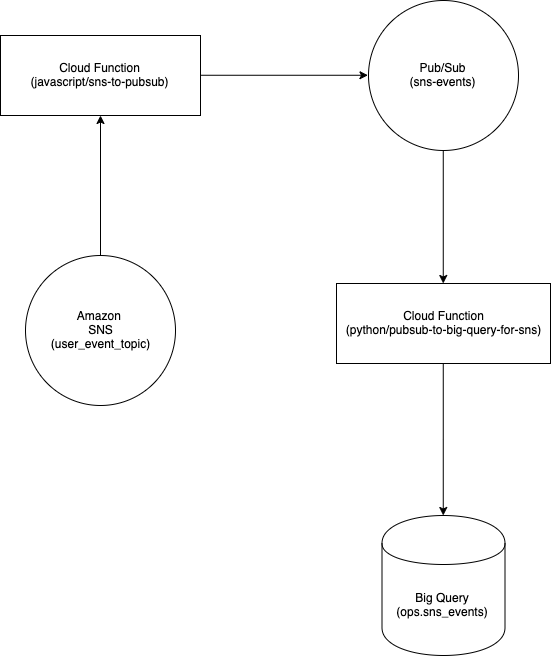
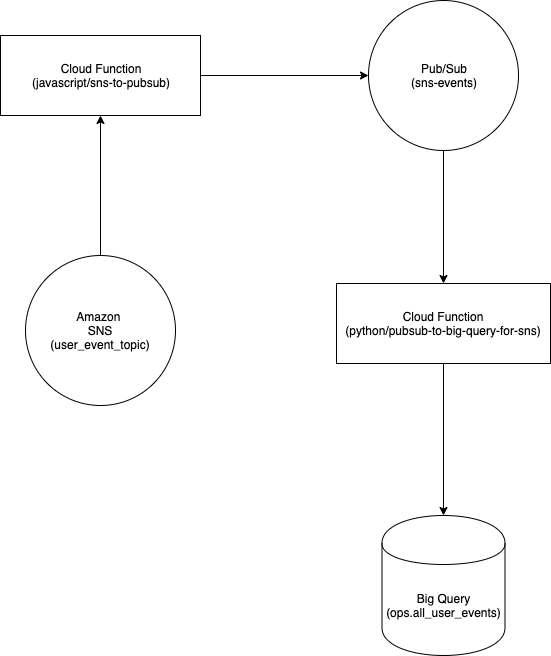
Update docs and architecture diagrams for data flow and fraud detection

diff --git a/functions/python/funnel-analysis/main.py b/functions/python/funnel-analysis/main.py
@@ -38,55 +38,7 @@ EVENTS_LIST = [
     }
 ]
 
-# dropoffs =======>
-#
-# find users who had an onboarding event but not certain events ("referral", "logged_in") between certain dates
-#
-# 1. select users that have all considered events: ["onboarding", "referral", "logged_in"]
-# 2. selects users that have events we want to filter out: ["referral", "logged_in"]
-# loop through all users in 2 if found in 1, delete row => thus the userId
-#
-# select userId from events_table where userId not in (
-#     select userId
-# from events_table
-# where event_type in ("referral", "logged_in") and creation_time <= $end_date
-# ) and event_type = "onboarding"
-# and creation_time >= $start_date and creation_time <= $end_date
-#
-#
-# recoveries ====>
-# select users with onboarding event before yesterday but no referral screen before yesterday (between certain dates), who now entered a referral screen yesterday
-#
-# first part: select users with onboarding event before yesterday but no referral screen before yesterday (or between certain dates)
-# select userId from events_table where userId not in
-# (
-#     select userId
-# from events_table
-# where event_type in ("referral", "logged_in") and creation_time <= $yesterday
-# )
-# and event_type = "onboarding"
-# and creation_time >= $start_date and creation_time <= $yesterday
-#
-# second part: select users who entered a referral screen yesterday
-# select user_id from events_table
-# where event_type="referral"
-# and creation_time >= $yesterday (between yesterday_start and yesterday_end)
-#
-# full part:
-# select user_id from events_table
-# where event_type="referral"
-# and creation_time >= $yesterday (between yesterday_start and yesterday_end)
-# and userId in
-# (
-#     select userId from events_table where userId not in
-# (
-# select userId
-# from events_table
-# where event_type in ("referral", "logged_in") and creation_time <= $yesterday
-# )
-# and event_type = "onboarding"
-#                  and creation_time >= $end_date and creation_time <= $yesterday
-# )
+
 
 def calculate_date_n_days_ago_at_utc(num):
     print("Getting date for {} days ag".format(num))

diff --git a/functions/python/user-behaviour/constant.py b/functions/python/user-behaviour/constant.py
@@ -1,7 +1,7 @@
 DEPOSIT_TRANSACTION_TYPE = "DEPOSIT"
 WITHDRAWAL_TRANSACTION_TYPE = "WITHDRAWAL"
-FIRST_BENCHMARK_DEPOSIT = 100000
-SECOND_BENCHMARK_DEPOSIT = 50000
+FIRST_BENCHMARK_DEPOSIT = 100000 # this is in unit 'WHOLE_CURRENCY'
+SECOND_BENCHMARK_DEPOSIT = 50000 # this is in unit 'WHOLE_CURRENCY'
 SIX_MONTHS_INTERVAL = 6
 FACTOR_TO_CONVERT_WHOLE_CURRENCY_TO_HUNDREDTH_CENT = 10000
 FACTOR_TO_CONVERT_WHOLE_CENT_TO_HUNDREDTH_CENT = 100

diff --git a/README.md b/README.md
@@ -24,11 +24,22 @@ Terraform is used to manage our infrastructure on GCP
  
 We run a serverless architecture which means our codebase is divided into functions which serve different purposes.
 
-There are four functions in this repository at the moment and they are located in the `functions` folder, they include:
-- `javascript/sns-to-pubsub` written in Javascript (Node 10)
-- `python/pubsub-to-big-query-for-sns` written in Python 3
-- `python/sync-amplitude-data-to-big-query` written in Python 3
-- `javascript/fetch-from-big-query` written in Javascript (Node 10)
+The functions in this repository are located in the `functions` folder. Within the functions folder, these functions
+are sub-divided into `javascript` and `python` folders and this represents the language they are written in.
+The functions are:
+
+JavaScript:
+- `javascript/sns-to-pubsub`: receives events from Amazon SNS and publishes it to Google Pub/Sub topic: `sns-events`
+- `javascript/fetch-from-big-query`: fetch amplitude data from big query
+- `javascript/notification-service`: sends email notifications with given message to given users
+- `javascript/fraud-detector`: runs a set of custom rules against user behaviour to determine if user is dodgy
+
+Python: 
+- `python/pubsub-to-big-query-for-sns`: takes sns events from Pub/Sub and stores into big query table: `all_user_events`
+- `python/sync-amplitude-data-to-big-query`: downloads data daily from Amplitude and stores into big query table: `all_user_events` 
+- `python/funnel-analysis`: checks for drop offs / recovery users  
+- `python/user-behaviour`: updates user behaviour when there is an event on `sns-events` topic and retrieves user behaviour 
+
 
 The functions above are all cloud functions on GCP.
 
@@ -56,7 +67,7 @@ Production Endpoint:  [https://europe-west1-jupiter-production-258809.cloudfunct
 
 Diagram of Data flow from Amazon
 
-![Diagram showcasing Data flow from Amazon](/docs/diagram_of_data_flow_from_amazon.png)
+![Diagram showcasing Data flow from Amazon](docs/diagram_of_data_flow_from_amazon.png)
 
 
 ## Data Inflow from Amplitude
@@ -72,13 +83,14 @@ that sends a message to Pub/Sub topic `daily-runs` at 3am every day. The `python
 function is subscribed to the Pub/Sub topic `daily-runs` and starts syncing amplitude data to big query for the 
 previous day on receiving the message from `daily-runs`.
 
-On receiving the data from Amplitude, `python/sync-amplitude-data-to-big-query` transforms the data and stores a copy of it in google cloud storage and then loads the data into Big Query tables `amplitude.events` and `amplitude.events_properties`.
+On receiving the data from Amplitude, `python/sync-amplitude-data-to-big-query` transforms the data and stores a copy of it in google cloud storage 
+and then loads the data into Big Query table `ops.all_user_events`
 
 Again the entire flow is best explained with the diagram below:
 
 Diagram of Data flow from Amplitude
 
-![Diagram showcasing Data flow from Amplitude](/docs/diagram_of_data_flow_from_amplitude.png)
+![Diagram showcasing Data flow from Amplitude](docs/diagram_of_data_flow_from_amplitude.png)
 
 
 ## Fetch From Amplitude
@@ -90,23 +102,99 @@ Endpoints for `javascript/fetch-from-big-query` are:
 Staging Endpoint: [https://us-central1-jupiter-ml-alpha.cloudfunctions.net/fetch-from-big-query](https://us-central1-jupiter-ml-alpha.cloudfunctions.net/fetch-from-big-query )
 Production Endpoint:  [https://europe-west1-jupiter-production-258809.cloudfunctions.net/fetch-from-big-query](https://europe-west1-jupiter-production-258809.cloudfunctions.net/fetch-from-big-query)
 
-## Google and Amplitude Credentials
 
+## Fraud Detection
+We would like to detect dodgy users. Users that are suspected to have made fraudulent transactions.
+Our architecture involves 4 different functions in order to achieve this.
+
+The flow of fraud detection starts with the `python/user-behaviour` folder which contain two functions in one file.
+The `updateUserBehaviourAndTriggerFraudDetector` (referred to as: `update user behaviour`) and `fetchUserBehaviourBasedOnRules` 
+(referred to as: `fetch user behaviour`) functions.
+
+Step 1: **`update user behaviour` logs new user behaviour**. 
+The `update user behaviour` is triggered by a new event on the `sns-events` topic
+(indicating a new user transaction), `update user behaviour` proceeds to log the user's new 
+transaction to the big query table: `ops.user_behaviour`.
+
+Step 2: **`update user behaviour` triggers fraud detector**. 
+`update user behaviour` then triggers the fraud detector via a http POST request with body 
+of the request as the user account info: `userId` and `accountId`.
+
+
+Step 3(a): **`fraud detector` retrieves the last flag times for user/rules** .
+The `javascript/fraud-detector` has the entry point: `fetchFactsAboutUserAndRunEngine` (referred to as: `fraud detector`).
+On receiving the POST request with the user account details from the `update user behaviour`
+function, the `fraud detector` retrieves the last time a user was flagged for the 
+various rules we have in the `javascript/fraud-detector/custom-rules.js` from the big query table: 
+`ops.user_flagged_as_fraudulent` table. These last flag times are then used to fetch facts about user behaviour 
+by sending a http POST request to the `fetch user behaviour` with the user account info and the last flag times for rules.
+
+Step 3(b): **`fraud detector` retrieves the user behaviour from `fetch user behaviour`** .
+On receiving the http POST request from `fraud-detector`, `fetch user behaviour` fetches the user behaviour 
+based on the aforementioned custom rules and last flag times. `fetch user behaviour` fetches the user 
+behaviour from the table: `user_behaviour`, it then returns the response to the `fraud-detector`.
+
+Step 4: **`fraud detector` runs user behaviour against rules** . 
+On receiving the response from `fetch user behaviour`, `fraud detector` runs the received user behaviour against the 
+predefined custom rules located in : `javascript/fraud-detector/custom-rules.js`.
+If any of the rules are passed by the received user behaviour, then the `fraud-detector` logs a flag to the 
+big query table: `user_flagged_as_fraudulent` indicating that the user is fraudulent. 
+Email Notifications are also sent to JupiterSave admins via a POST request to the notification service.
+
+If `verbose mode` is set to `true`, an email notification is sent via the notification service indicating that the 
+fraud detector ran.
+
+When an error occurs during the fraud detection process, an email notification is sent via the notification service 
+indicating that an error occurred during fraud detection.
+
+Fraud detector can be explained with a diagram showing the steps involved:
+
+Diagram of flow of Fraud Detection
+
+![Diagram showcasing process of Fraud Detection](docs/diagram_of_fraud_detection_process.png)
+
+
+
+No http endpoint is exposed for `user behaviour`'s first function => `updateUserBehaviourAndTriggerFraudDetector` 
+(`python/user-behaviour`) as the function is triggered by the Pub/Sub topic: `sns-events`
+ 
+Http Endpoints for `fraud detector` function => `fetchFactsAboutUserAndRunEngine` (`javascript/fraud-detector`): 
+Staging Endpoint: [https://us-central1-jupiter-ml-alpha.cloudfunctions.net/fraud-detector](https://us-central1-jupiter-ml-alpha.cloudfunctions.net/fraud-detector)
+Production Endpoint: [https://europe-west1-jupiter-production-258809.cloudfunctions.net/fraud-detector](https://europe-west1-jupiter-production-258809.cloudfunctions.net/fraud-detector)
+
+
+Http Endpoints for `user behaviour`'s second function =>`fetchUserBehaviourBasedOnRules` (`python/user-behaviour`):
+Staging Endpoint: [https://us-central1-jupiter-ml-alpha.cloudfunctions.net/fetch-user-behaviour-based-on-rules](https://us-central1-jupiter-ml-alpha.cloudfunctions.net/fetch-user-behaviour-based-on-rules)
+Production Endpoint: [https://europe-west1-jupiter-production-258809.cloudfunctions.net/fetch-user-behaviour-based-on-rules](https://europe-west1-jupiter-production-258809.cloudfunctions.net/fetch-user-behaviour-based-on-rules) 
+
+
+Http Endpoints for the `notification service` (`javascript/notification-service`): 
+Staging Endpoint: [https://us-central1-jupiter-ml-alpha.cloudfunctions.net/notification-service ](https://us-central1-jupiter-ml-alpha.cloudfunctions.net/notification-service)
+Production Endpoint: [https://europe-west1-jupiter-production-258809.cloudfunctions.net/notification-service](https://europe-west1-jupiter-production-258809.cloudfunctions.net/notification-service)
+
+
+## Funnel Analysis
+Funnel analysis is used to analyse the `all_user_events` to find the users that have dropped off or recovered while
+using the JupiterSave mobile app.
+
+
+## Google and Amplitude Credentials
 The service account, environment variables and secrets used to access Google and Amplitude's infrastructure is supplied 
 via [Circle CI's](https://circleci.com/gh/luke-jordan/jupiter-data/edit#env-vars) environment variables.   
 
 
 ## Terraform State
-The terraform state files for staging and production are stored in the staging bucket: `gs://staging-terraform-state-bucket`.
+The terraform state files for `staging` and `production` are stored in the staging bucket: `gs://staging-terraform-state-bucket`.
 
 
 ## Links to Draw.io Images
 In case you want to update the diagrams above, here are links to the draw.io files so you can edit the diagrams and update the images easily.
 
-1. [Data Inflow from Amazon](/docs/raw_xml/diagram_of_data_flow_from_amazon.xml)
-2. [Data Inflow from Amplitude](/docs/raw_xml/diagram_of_data_flow_from_amplitude.xml)
+1. [Data Inflow from Amazon](docs/raw_xml/diagram_of_data_flow_from_amazon.xml)
+2. [Data Inflow from Amplitude](docs/raw_xml/diagram_of_data_flow_from_amplitude.xml)
+2. [Fraud Detection Process](docs/raw_xml/diagram_of_fraud_detection_process.xml)
 
-## Creating a new Javacript function
+## Creating a new JavaScript function
 We have a sample function folder for javascript. Run the following command from the home directory of the repo to create a new javascript function following the sample function's format:
 ```
 cp -R functions/javascript/sample-js-function/ functions/javascript/{name_of_new_function}/

diff --git a/functions/python/funnel-analysis/README.md b/functions/python/funnel-analysis/README.md
@@ -1,0 +1,59 @@
+
+# Funnel Analysis
+
+## Drop-offs
+
+Find users who had an onboarding event but not certain events ("referral", "logged_in") between certain dates
+
+1. select users that have all considered events: ["onboarding", "referral", "logged_in"]
+2. selects users that have events we want to filter out: ["referral", "logged_in"]
+loop through all users in 2 if found in 1, delete row => thus the userId
+
+```
+select userId from events_table where userId not in (
+    select userId
+from events_table
+where event_type in ("referral", "logged_in") and creation_time <= $end_date
+) and event_type = "onboarding"
+and creation_time >= $start_date and creation_time <= $end_date
+```
+
+## Recoveries
+select users with onboarding event before yesterday but no referral screen before yesterday (between certain dates), who now entered a referral screen yesterday
+
+First part: select users with onboarding event before yesterday but no referral screen before yesterday (or between certain dates):
+```
+select userId from events_table where userId not in
+(
+    select userId
+from events_table
+where event_type in ("referral", "logged_in") and creation_time <= $yesterday
+)
+and event_type = "onboarding"
+and creation_time >= $start_date and creation_time <= $yesterday
+```
+
+Second part: select users who entered a referral screen yesterday:
+```
+select user_id from events_table
+where event_type="referral"
+and creation_time >= $yesterday (between yesterday_start and yesterday_end)
+```
+
+Full part:
+```
+select user_id from events_table
+where event_type="referral"
+and creation_time >= $yesterday (between yesterday_start and yesterday_end)
+and userId in
+(
+    select userId from events_table where userId not in
+(
+select userId
+from events_table
+where event_type in ("referral", "logged_in") and creation_time <= $yesterday
+)
+and event_type = "onboarding"
+                 and creation_time >= $end_date and creation_time <= $yesterday
+)
+```
